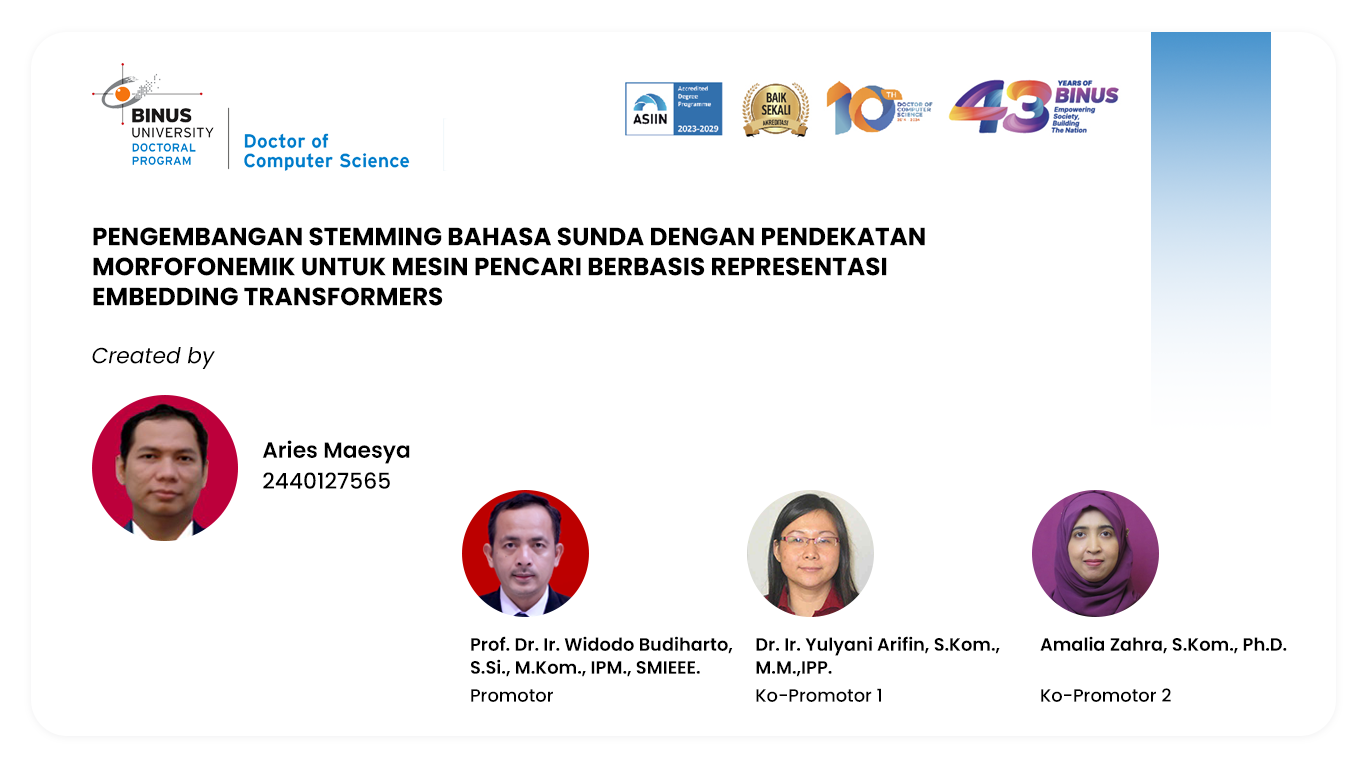
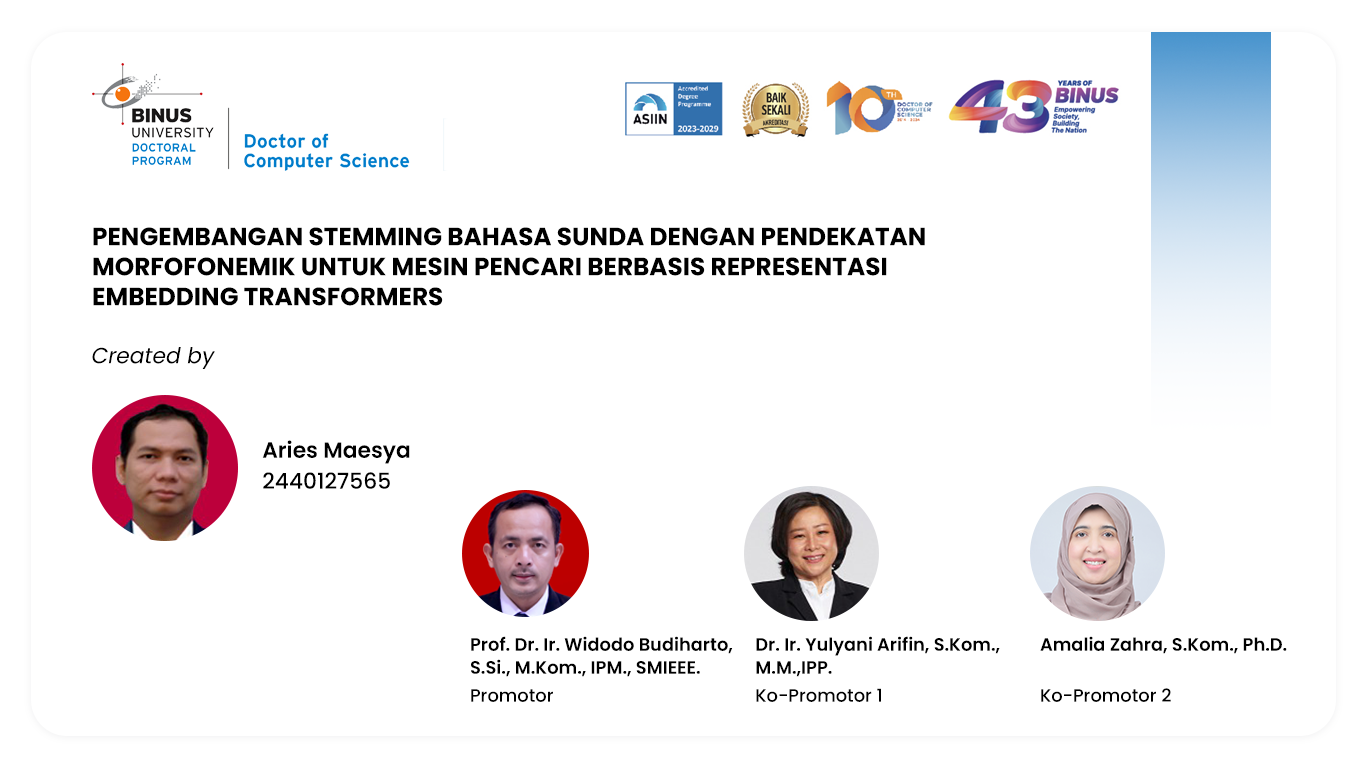
feat: update about page

Changed region(s): [[0.7379, 0.625, 0.8609, 0.8125], [0.5534, 0.625, 0.6457, 0.8125]]

diff --git a/amsearch/templates/pages/public/about.html b/amsearch/templates/pages/public/about.html
@@ -7,8 +7,8 @@
     <figure class="image is-inline-block">
       <img src="/static/credits.png" style="max-height: 30rem;" alt="Pembuat Aplikasi AMSearch">
     </figure>
-    <h2 class="subtitle is-4 mt-4">
-      Discover the Unseen, Unearth the Answers, Unleash Your Curiosity!
+    <h2 class="subtitle is-4 mt-4 has-text-weight-bold">
+      Tentang AMSearch
       <span class="icon has-text-success">
         <i class="fa-solid fa-globe"></i>
       </span>
@@ -25,11 +25,13 @@
   <div class="container">
     <div class="columns is-centered">
       <div class="column is-12-mobile is-10-tablet is-8-desktop">
-        <p class="is-size-5">
-          Selamat datang di Amsearch Engine, pintu gerbang pengetahuan yang tak terbatas! Dengan teknologi
-          terdepan, kami mempersembahkan pengalaman pencarian yang cepat, akurat, dan menyenangkan. Mari
-          jelajahi dunia dengan ExploreX dan temukan jawaban untuk setiap pertanyaan yang menggelitik
-          pikiran Anda!
+        <p class="is-size-5 has-text-justified">
+          <strong>AMSearch</strong> adalah prototipe aplikasi berbasis website yang dikembangkan sebagai sistem
+          <em>search engine</em> dan <em>stemmer</em> untuk dokumen teks dalam Bahasa Sunda. Aplikasi ini merupakan
+          bagian dari hasil penelitian pengembangan algoritma <em>stemming</em> berbasis morfofonemik serta sistem temu
+          kembali informasi (IR) menggunakan model embedding transformer seperti BERT. AMSearch mendukung pencarian
+          semantik dan analisis morfologis kata dalam Bahasa Sunda dengan pendekatan berbasis aturan dan representasi
+          vektor dokumen.
         </p>
       </div>
     </div>
@@ -40,24 +42,41 @@
 <section class="section">
   <div class="container">
     <div class="columns is-centered">
-      <div class="column is-12-mobile is-10-tablet is-8-desktop">
-        <h4 class="title is-5 has-text-weight-semibold has-text-black">Fitur Unggulan</h4>
-        <ul class="content is-medium has-text-justified">
-          <li><span class="has-text-success">Pencarian Cepat:</span> Waktu adalah aset berharga. Dengan ExploreX, temukan jawaban dan
-            informasi
-            yang Anda cari dalam sekejap. Tidak perlu menunggu, hanya ketuk dan temukan!</li>
-          <li><span class="has-text-success">Antarmuka Intuitif:</span> ExploreX didesain untuk memastikan setiap pengguna merasa nyaman saat
-            menggunakannya. Dengan antarmuka intuitif, Anda akan menjelajahi dunia pengetahuan dengan
-            lancar.</li>
-          <li><span class="has-text-success">Hasil Akurat:</span> Kami mengerti pentingnya keandalan informasi. ExploreX memberikan hasil
-            pencarian yang akurat dan tepercaya, sehingga Anda dapat mengandalkan setiap jawaban yang
-            ditemukan.</li>
-          <li><span class="has-text-success">Pencarian Multibahasa:</span> Jangan biarkan batasan bahasa menghalangi pengetahuan. ExploreX
-            mendukung berbagai bahasa, memungkinkan Anda untuk mencari informasi dari seluruh dunia.</li>
-          <li><span class="has-text-success">Filter Kustom:</span> Sesuaikan pencarian Anda dengan filter kustom kami. Saring hasil
-            berdasarkan
-            tanggal, sumber, atau jenis konten untuk mendapatkan informasi yang paling relevan dengan
-            kebutuhan Anda.</li>
+      <div class="content column is-12-mobile is-10-tablet is-8-desktop">
+        <h4 class="title is-5 has-text-weight-semibold has-text-black mb-4">Fitur Utama AMSearch</h4>
+        <ol class="is-medium has-text-justified mt-0">
+          <li>
+            <strong>Stemming Kata Sunda (AM Sunda Stemmer):</strong>
+            <ul class="mt-0">
+              <li>Pendekatan rule-based dengan analisis <strong>morfofonemik</strong></li>
+              <li>Menampilkan hasil <em>stemming</em> per kata beserta alternatif jika kata tidak ditemukan</li>
+              <li>Dibandingkan dengan algoritma lain seperti Purwoko, Nazief-Andriani, dan UG18</li>
+            </ul>
+          </li>
+          <li>
+            <strong>Stemming Dokumen Teks:</strong>
+            <ul class="mt-0">
+              <li>Proses stemming untuk satu dokumen penuh.</li>
+              <li>Menampilkan akurasi dan evaluasi kata hasil stemming.</li>
+              <li>Visualisasi perbandingan dengan metode sebelumnya.</li>
+            </ul>
+          </li>
+          <li>
+            <strong>Pencarian Dokumen (IR System):</strong>
+            <ul class="mt-0">
+              <li>Menggunakan model embedding <strong>Transformer</strong> (BERT-based).</li>
+              <li>Pencarian berdasarkan kueri dalam Bahasa Sunda.</li>
+              <li>Menampilkan hasil dokumen relevan dari dataset Bahasa Sunda.</li>
+            </ul>
+          </li>
+        </ol>
+
+        <h4 class="title is-5 has-text-weight-semibold has-text-black mb-4 mt-6">Kontribusi Inovatif</h4>
+        <ul class="is-medium has-text-justified mt-0">
+          <li>Algoritma <em>stemming</em> baru untuk Bahasa Sunda.</li>
+          <li>Dataset IR khusus Bahasa Sunda yang jarang tersedia (AMSunda Dataset)</li>
+          <li>Website AMSearch sebagai bukti konsep (proof-of-concept) sistem IR lokal berbasis transformer.</li>
+          <li>Upaya pelestarian dan digitalisasi Bahasa Sunda melalui NLP dan IR.</li>
         </ul>
       </div>
     </div>
